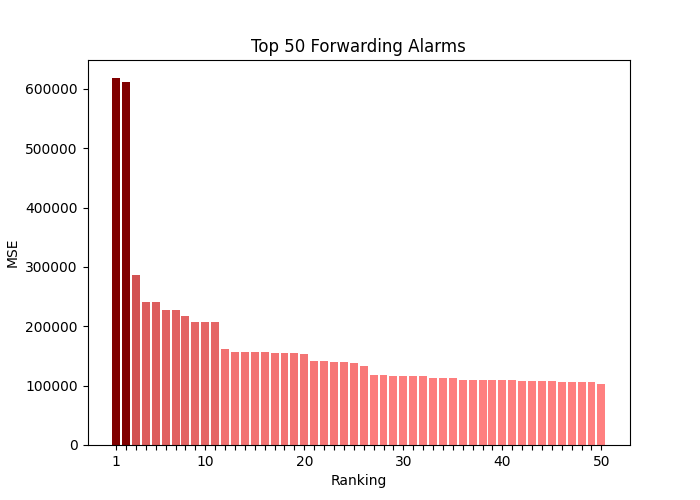
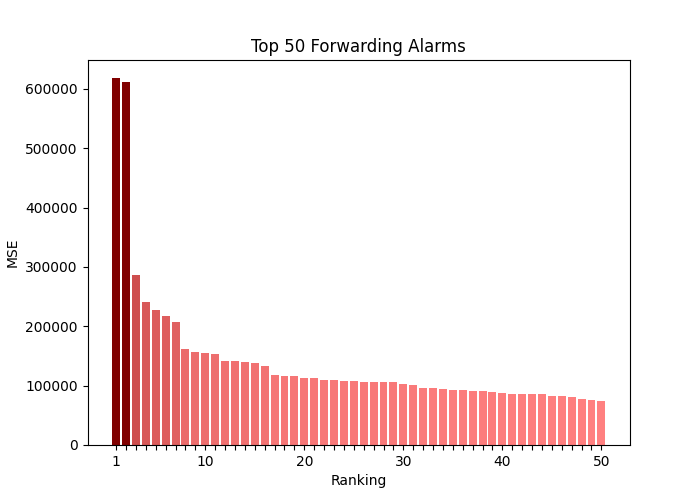
Added top fw alarms, and rtt graphs

Changed region(s): [[0.21, 0.6, 0.87, 0.81]]

diff --git a/phase3_scripts/fw_model/fw_alarm_stats.py b/phase3_scripts/fw_model/fw_alarm_stats.py
@@ -7,7 +7,7 @@ import ast
 from math import sqrt
 import matplotlib.pyplot as plt
 import matplotlib as mp
-
+import collections
 
 start_date = sys.argv[1].split('-')
 end_date = sys.argv[2].split('-')
@@ -20,10 +20,13 @@ delta = edate - sdate
 hours = ["00","01","02","03","04","05","06","07","08","09","10","11","12","13",
          "14","15","16","17","18","19","20","21","22","23"]
 
+cities = json.load(open("json_results/fac_loc_results.json"))
+
 alarms = {}
 mse_values = []
 red_alarms = 0
 yellow_alarms = 0
+locations = []
 
 file_id = 0
 
@@ -49,7 +52,26 @@ for date in range(delta.days + 1):
         for alarm_type in alarm_file:
             for alarm in alarm_file[alarm_type]:
                 #if alarm[1] != '58' and alarm[1] != '18':
-                mse_values.append((alarm[3], alarm[0], alarm[1], str(day), hour, file_id))
+
+                if not [item for item in mse_values if item[0] == alarm[3]]:
+                    mse_values.append((alarm[3], alarm[0], alarm[1], str(day), hour, file_id))
+
+                #mse_values.append((alarm[3], alarm[0], alarm[1], str(day), hour, file_id))
+
+                try:
+                    near_end = cities[alarm[0]]["city"]
+                    far_end = cities[alarm[1]]["city"]
+
+                    if alarm_type == "red_alarms":
+                        if near_end != far_end:
+                            locations.append(near_end)
+                            locations.append(far_end)
+                        else:
+                            locations.append(near_end)
+
+                except KeyError:
+                    locations.append("others")
+
                 if alarm[0] in alarms:
                     if alarm[1] in alarms[alarm[0]]:
                         if alarm_type in alarms[alarm[0]][alarm[1]]:
@@ -96,6 +118,10 @@ for date in range(delta.days + 1):
 #output_file.close()
 
 mse_values.sort(reverse = True)
+
+locations = collections.Counter(locations)
+
+print(locations)
 
 print("NUMBER OF TOTAL YELLOW ALARMS", yellow_alarms)
 print("NUMBER OF TOTAL RED ALARMS", red_alarms)

diff --git a/phase3_scripts/rtt_monitoring/rtt_alarm_stats.py b/phase3_scripts/rtt_monitoring/rtt_alarm_stats.py
@@ -7,6 +7,7 @@ import ast
 from math import sqrt
 import matplotlib.pyplot as plt
 import matplotlib as mp
+import collections
 
 
 start_date = sys.argv[1].split('-')
@@ -20,10 +21,12 @@ delta = edate - sdate
 hours = ["00","01","02","03","04","05","06","07","08","09","10","11","12","13",
          "14","15","16","17","18","19","20","21","22","23"]
 
+
+cities = json.load(open("json_results/fac_loc_results.json"))
+
 alarms = {}
+locations = []
 diff_values = []
-red_alarms = 0
-yellow_alarms = 0
 
 file_id = 0
 
@@ -42,6 +45,7 @@ for date in range(delta.days + 1):
             print('fnfe')
 
         alarm_file = json.load(file)
+        
 
         # {"(53, 306)":[12.141,20.33833,6.57349],"(57, 53)":[3.94867,5.48933,1.22499],"(857, 18)":[2.21267,252.068,2.60434],"(18, 18)":[5.617,157.03133,0.55183]}
 
@@ -52,6 +56,20 @@ for date in range(delta.days + 1):
 
             diff_values.append((alarm[1] - alarm[0], link0, link1, str(day), hour, file_id))
 
+            try:
+                near_end = cities[link0]["city"]
+                far_end = cities[link1]["city"]
+
+                if near_end != far_end:
+                    locations.append(near_end)
+                    locations.append(far_end)
+                else:
+                    locations.append(near_end)
+
+
+            except KeyError:
+                locations.append("others")
+            
         file.close()
 
         file_id = file_id + 1
@@ -60,7 +78,13 @@ for date in range(delta.days + 1):
 #output_file.write(json.dumps(mse_values))
 #output_file.close()
 
+locations = collections.Counter(locations)
+
+print(locations)
+
 diff_values.sort(reverse = True)
+
+#print(locations)
 
 #print(mse_values)
 
